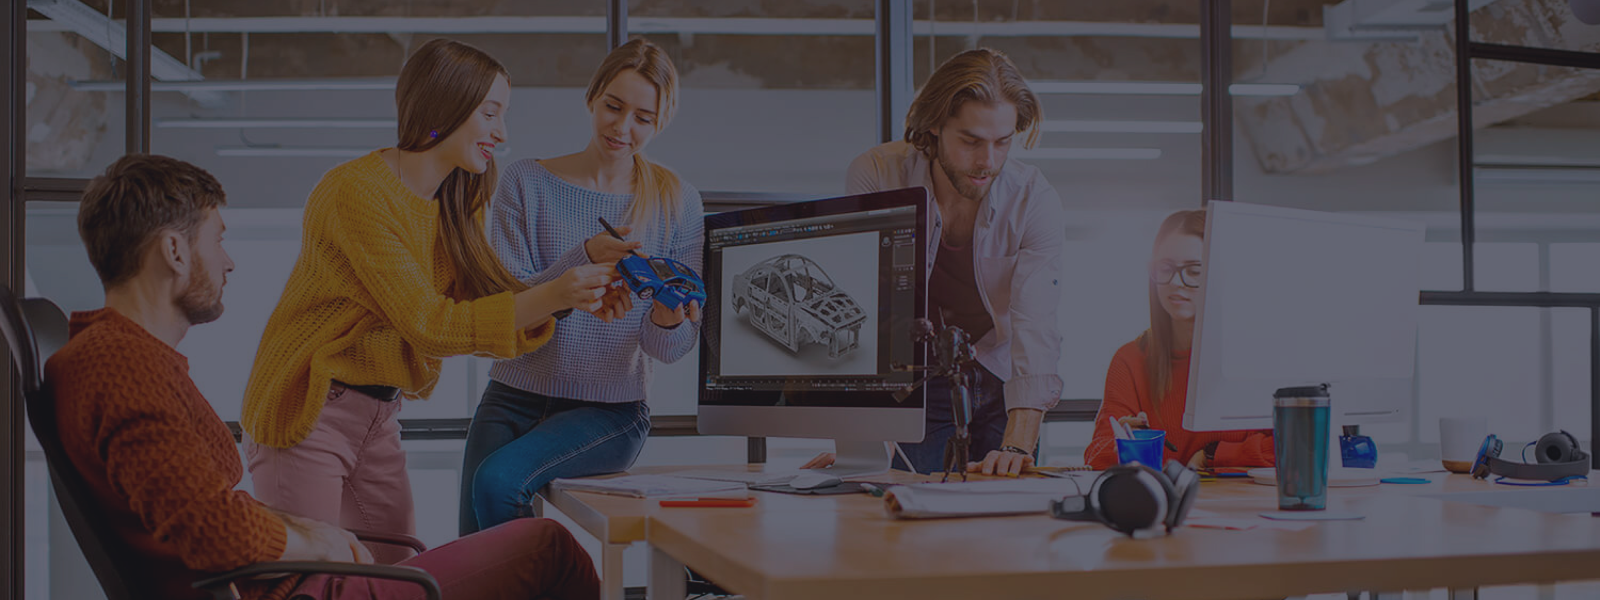
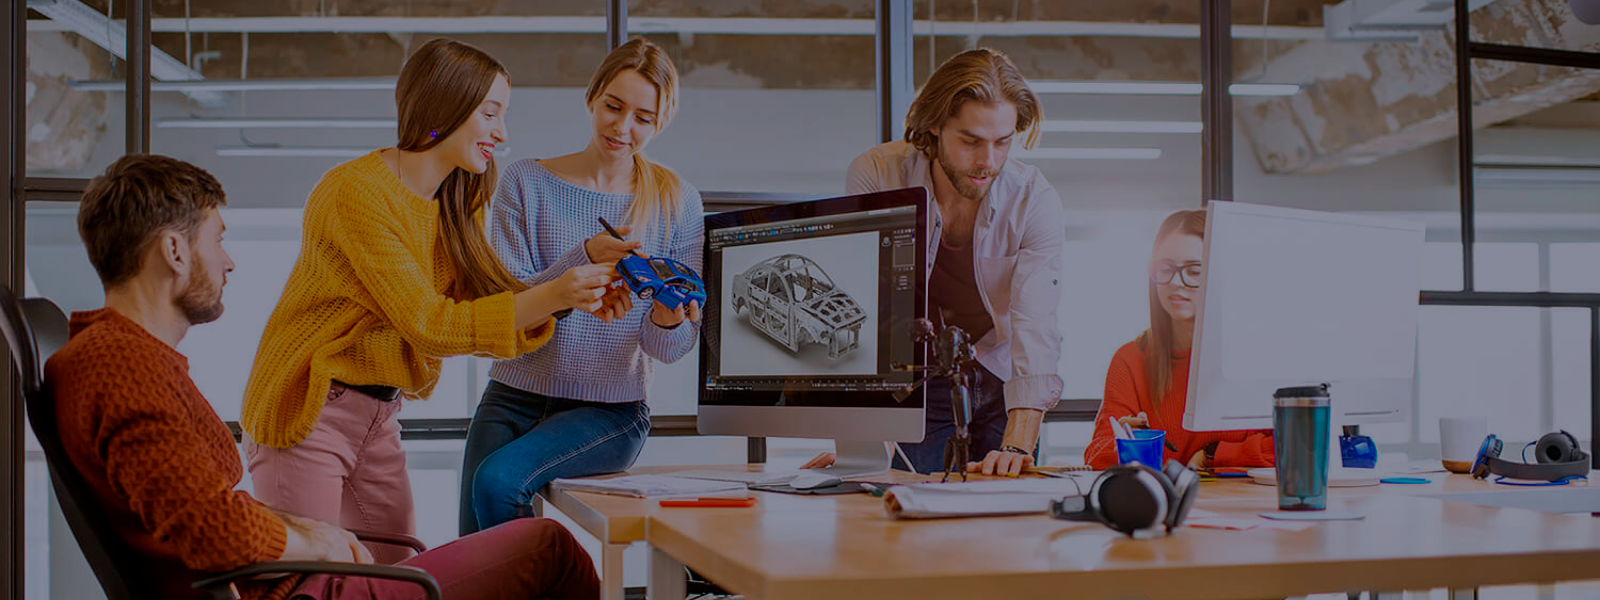
shadows

diff --git a/style.css b/style.css
@@ -114,7 +114,8 @@ main {
 
 .main-section1 {
     height: 600px;
-    background: url(./img/main/main-background.png);
+    background: linear-gradient(rgba(47, 48, 58, 0.4), rgba(47, 48, 58, 0.4)),
+        url(./img/main/main-background.png) fixed;
     color: #fff;
     padding: 0;
     display: flex;
@@ -252,13 +253,14 @@ main {
 
 .main-team ul li {
     width: 270px;
-    height: 368px;
     display: flex;
     flex-direction: column;
     align-items: center;
     justify-content: center;
     background-color: #fff;
     border-radius: 0 0 4px 4px;
+
+    box-shadow: 0px 2px 3px 0px rgba(0, 0, 0, 0.3);
 }
 .main-team ul li img {
     width: 270px;
@@ -376,6 +378,10 @@ footer address {
     justify-content: flex-start;
     flex-direction: column;
     color: var(--light-text);
+}
+
+.card:hover {
+    box-shadow: 0px 2px 3px 0px rgba(0, 0, 0, 0.3);
 }
 
 .card img {
